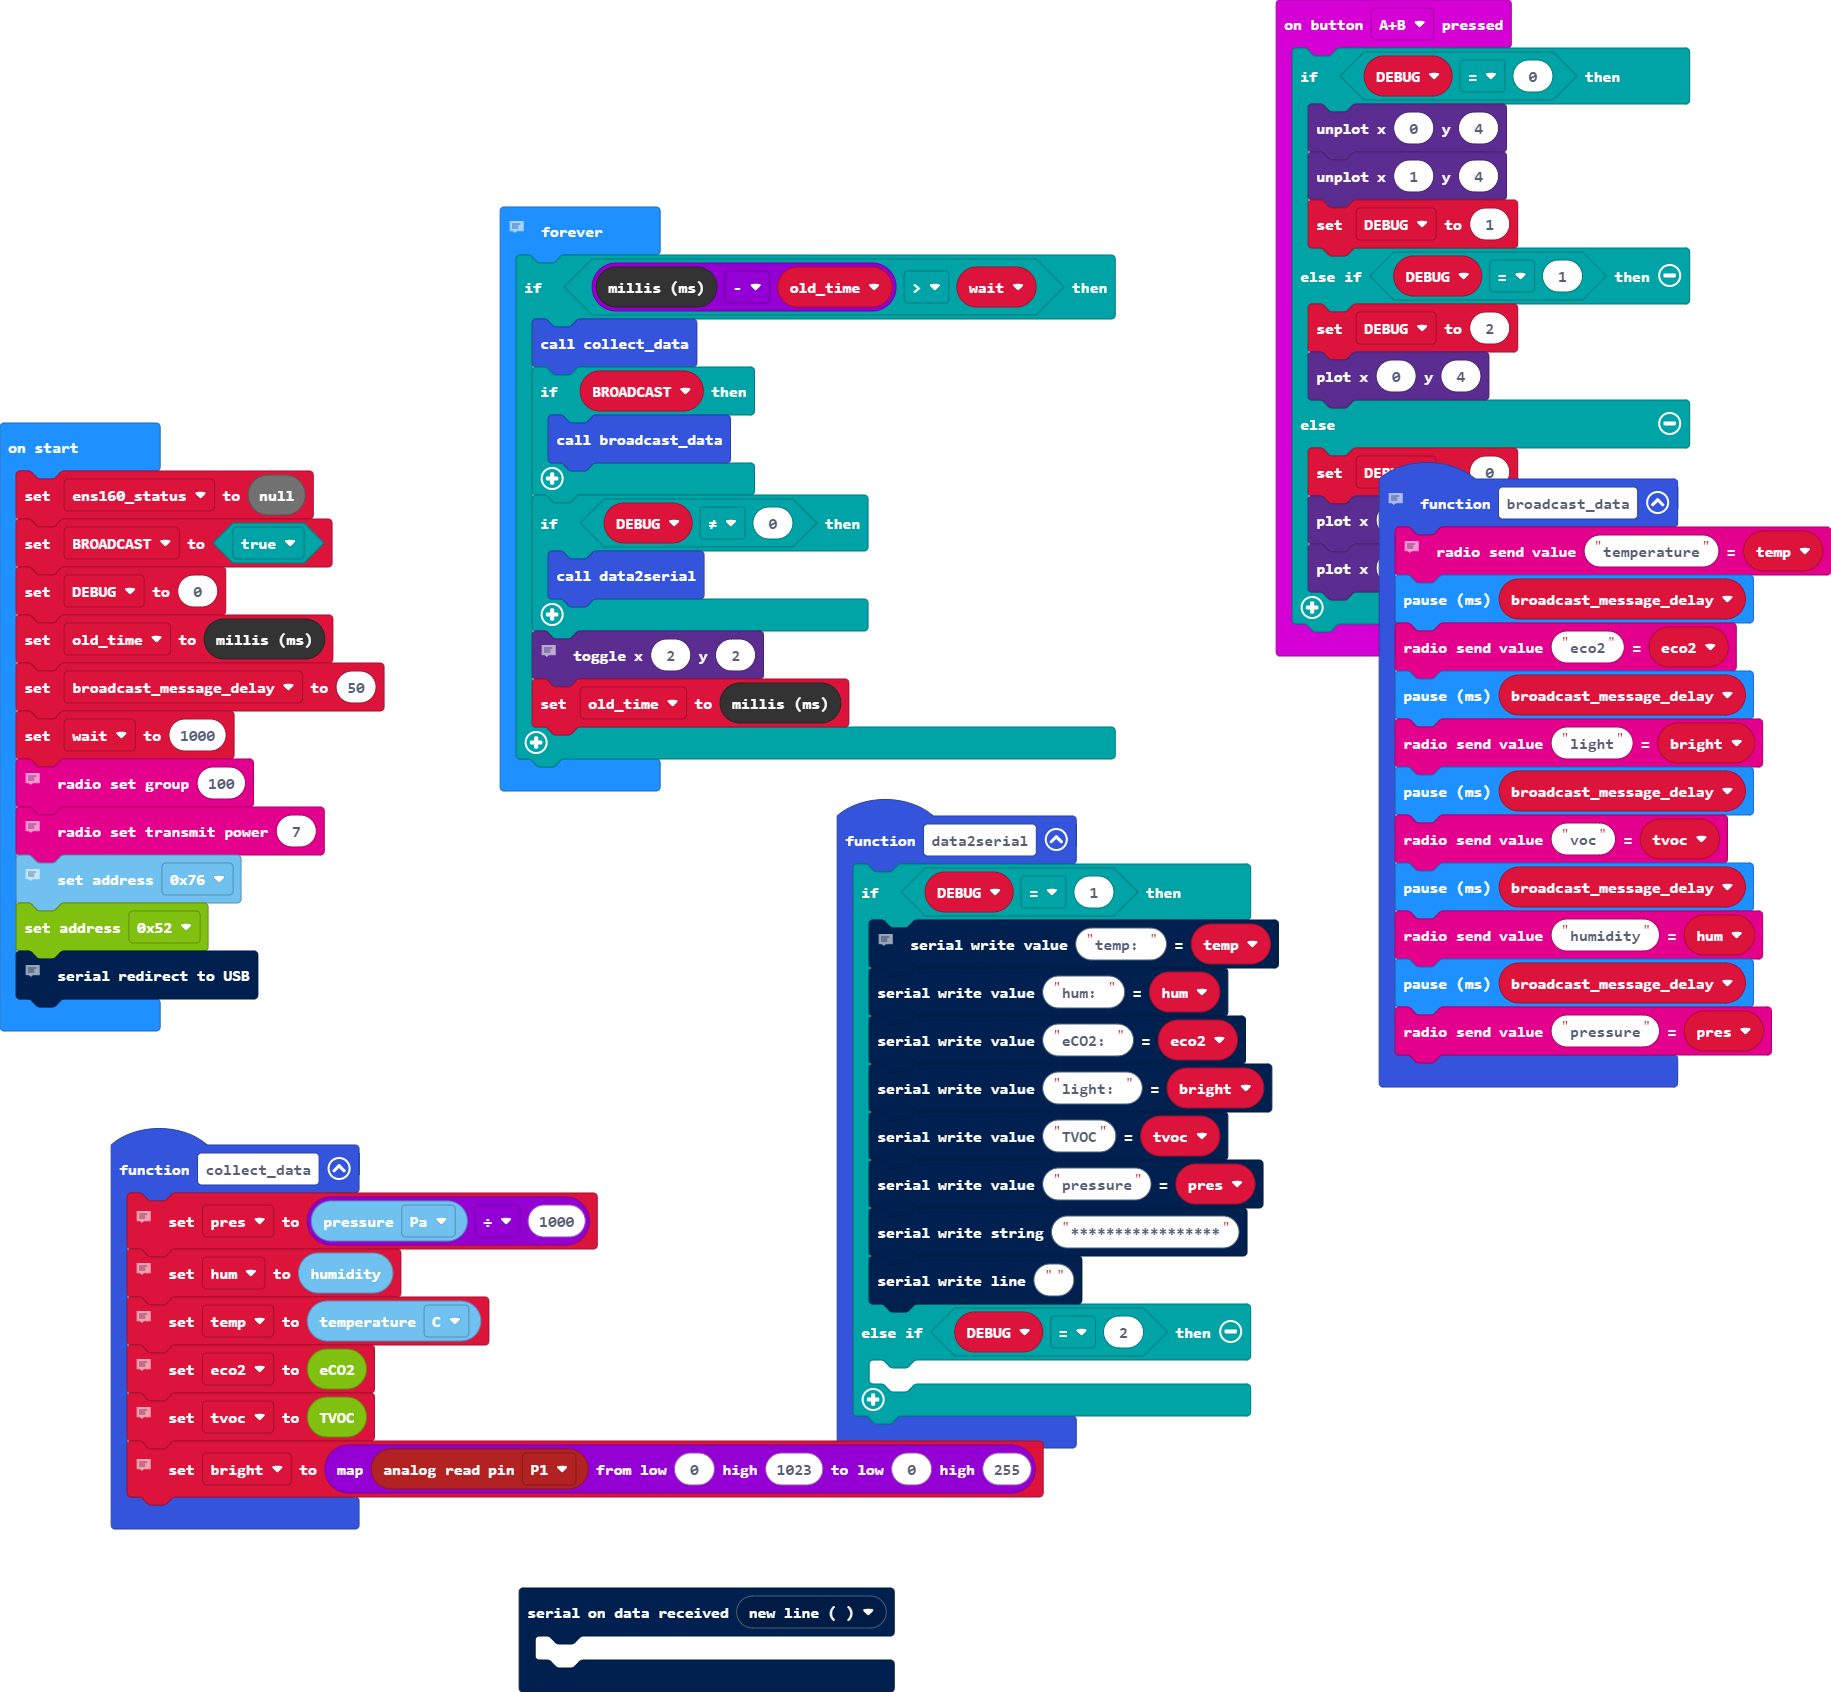
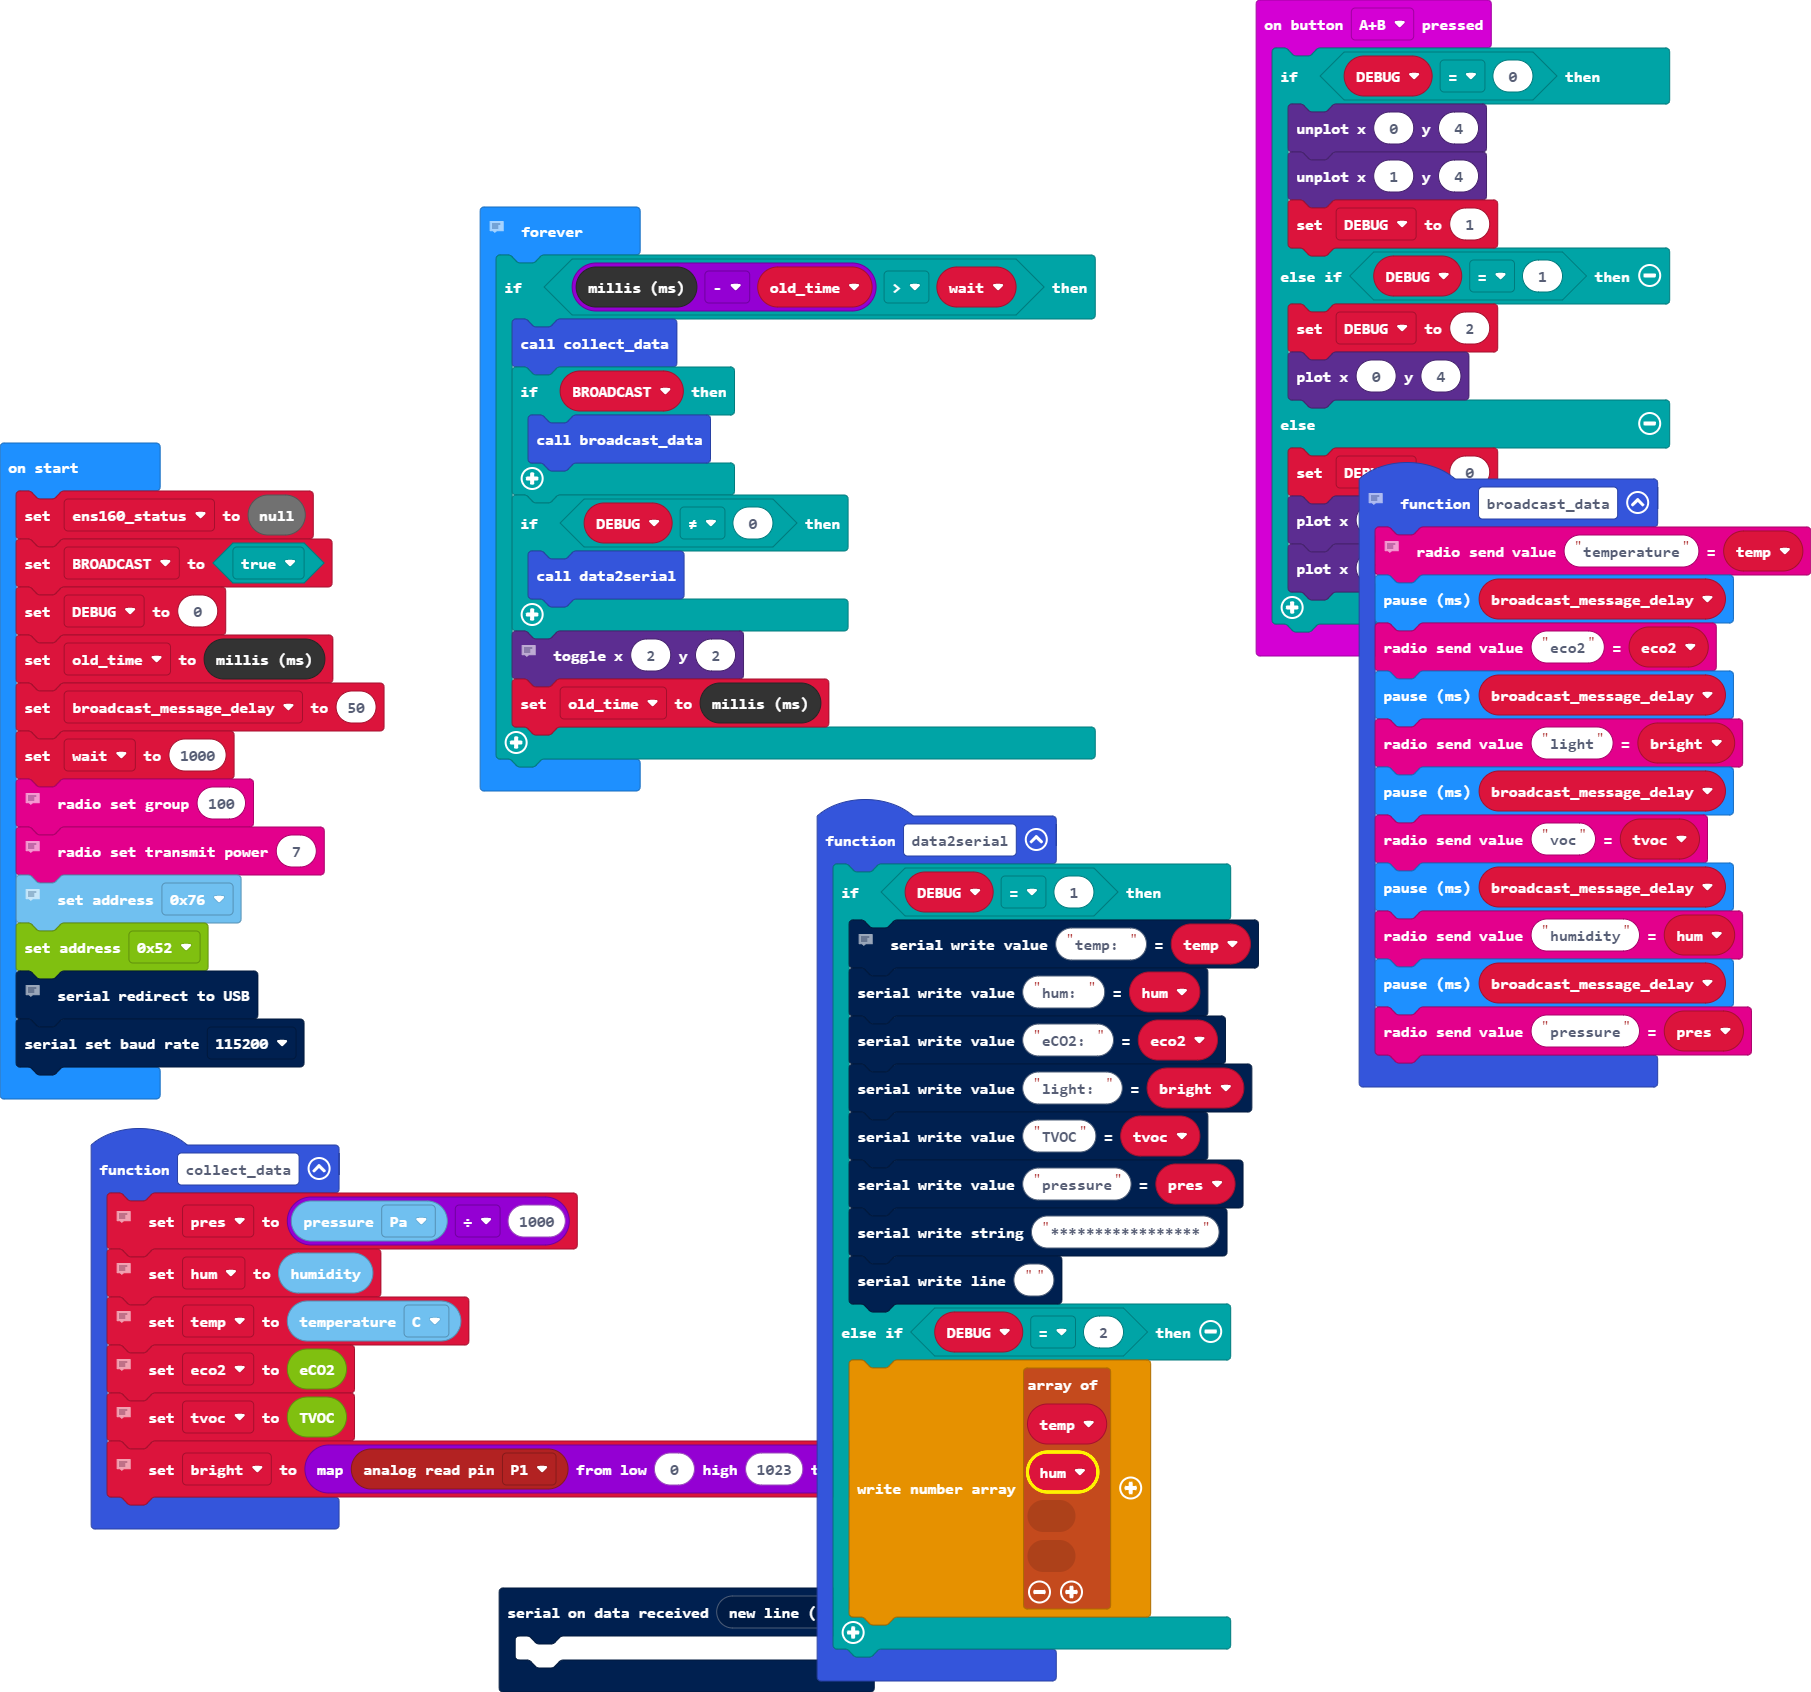
Set baud rate and set data to be sent over serial in DEBUG mode 2

diff --git a/main.ts b/main.ts
@@ -26,9 +26,7 @@ function collect_data () {
     // value given between 0 and 255
     bright = Math.map(pins.analogReadPin(AnalogPin.P1), 0, 1023, 0, 255)
 }
-serial.onDataReceived(serial.delimiters(Delimiters.NewLine), function () {
-	
-})
+
 // Broadcast environmental data one by one
 function broadcast_data () {
     // adatküldés rádióra
@@ -56,7 +54,14 @@ function data2serial () {
         serial.writeString("*****************")
         serial.writeLine("")
     } else if (DEBUG == 2) {
-    	
+        dataStreamer.writeNumberArray([
+        temp,
+        hum,
+        eco2,
+        bright,
+        tvoc,
+        pres
+        ])
     }
 }
 let bright = 0
@@ -82,6 +87,7 @@ BME280.Address(BME280_I2C_ADDRESS.ADDR_0x76)
 ENS160.Address(ENS160_I2C_ADDRESS.ADDR_0x52)
 // soros port átirányítása usb-re
 serial.redirectToUSB()
+serial.setBaudRate(BaudRate.BaudRate115200)
 // Save environmental data  to variables
 basic.forever(function () {
     if (control.millis() - old_time > wait) {
